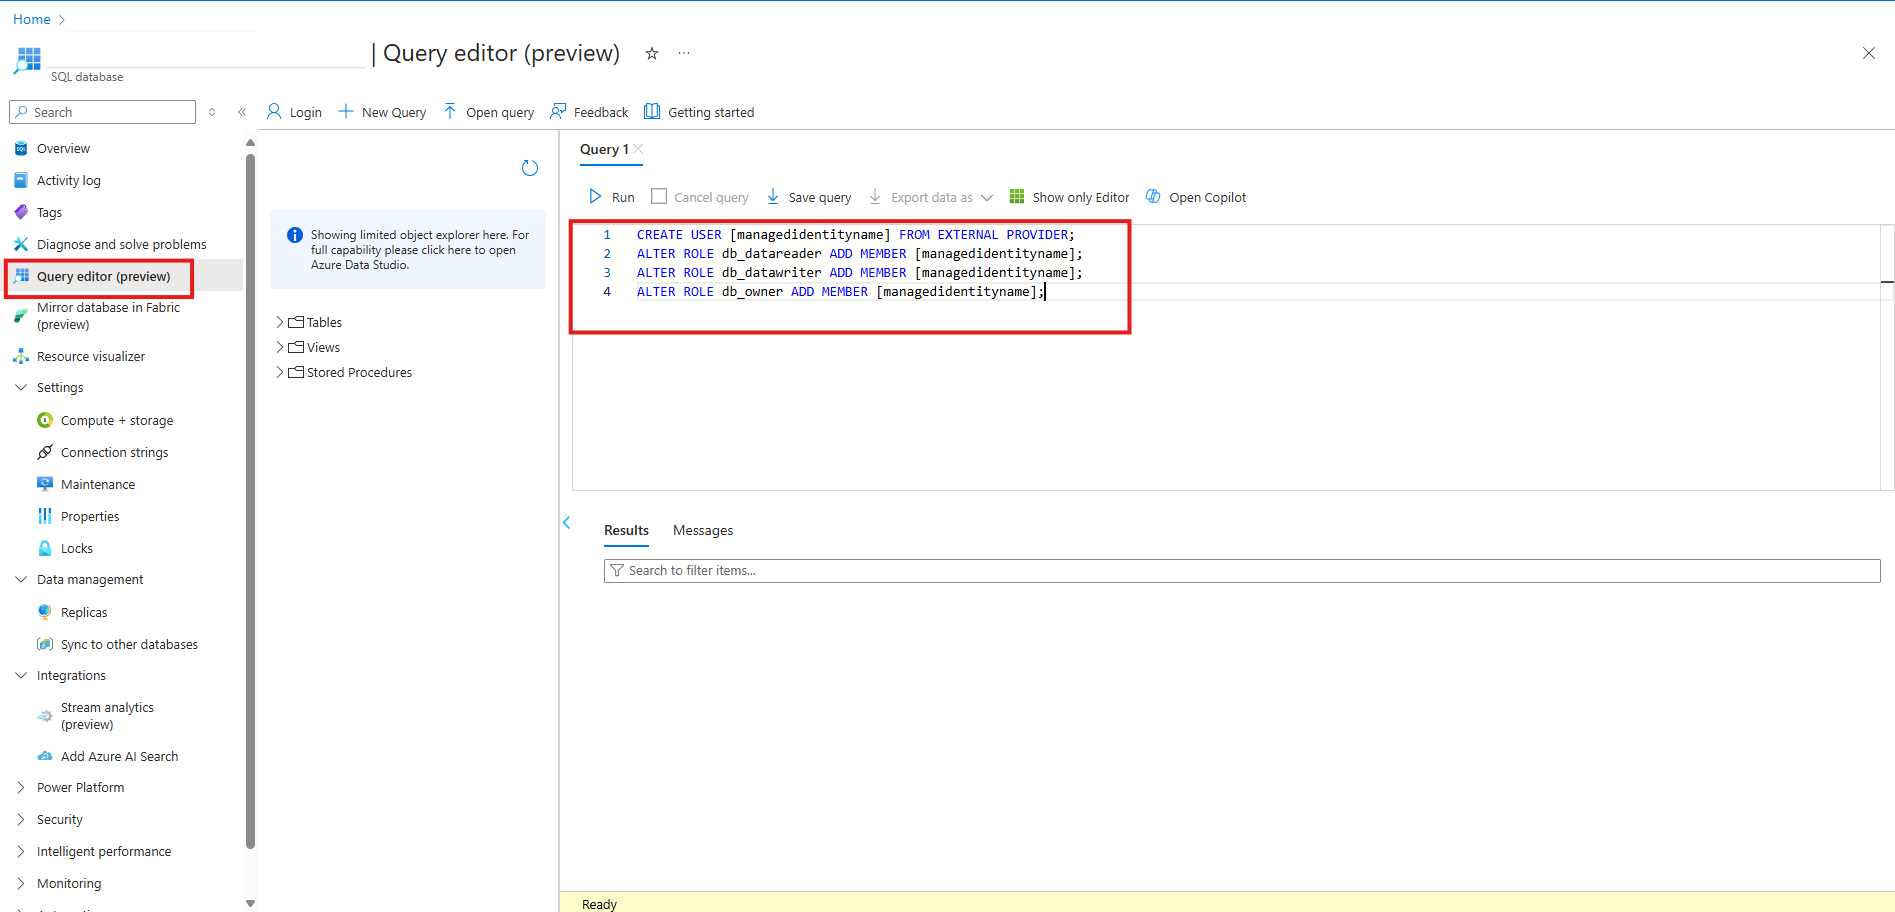
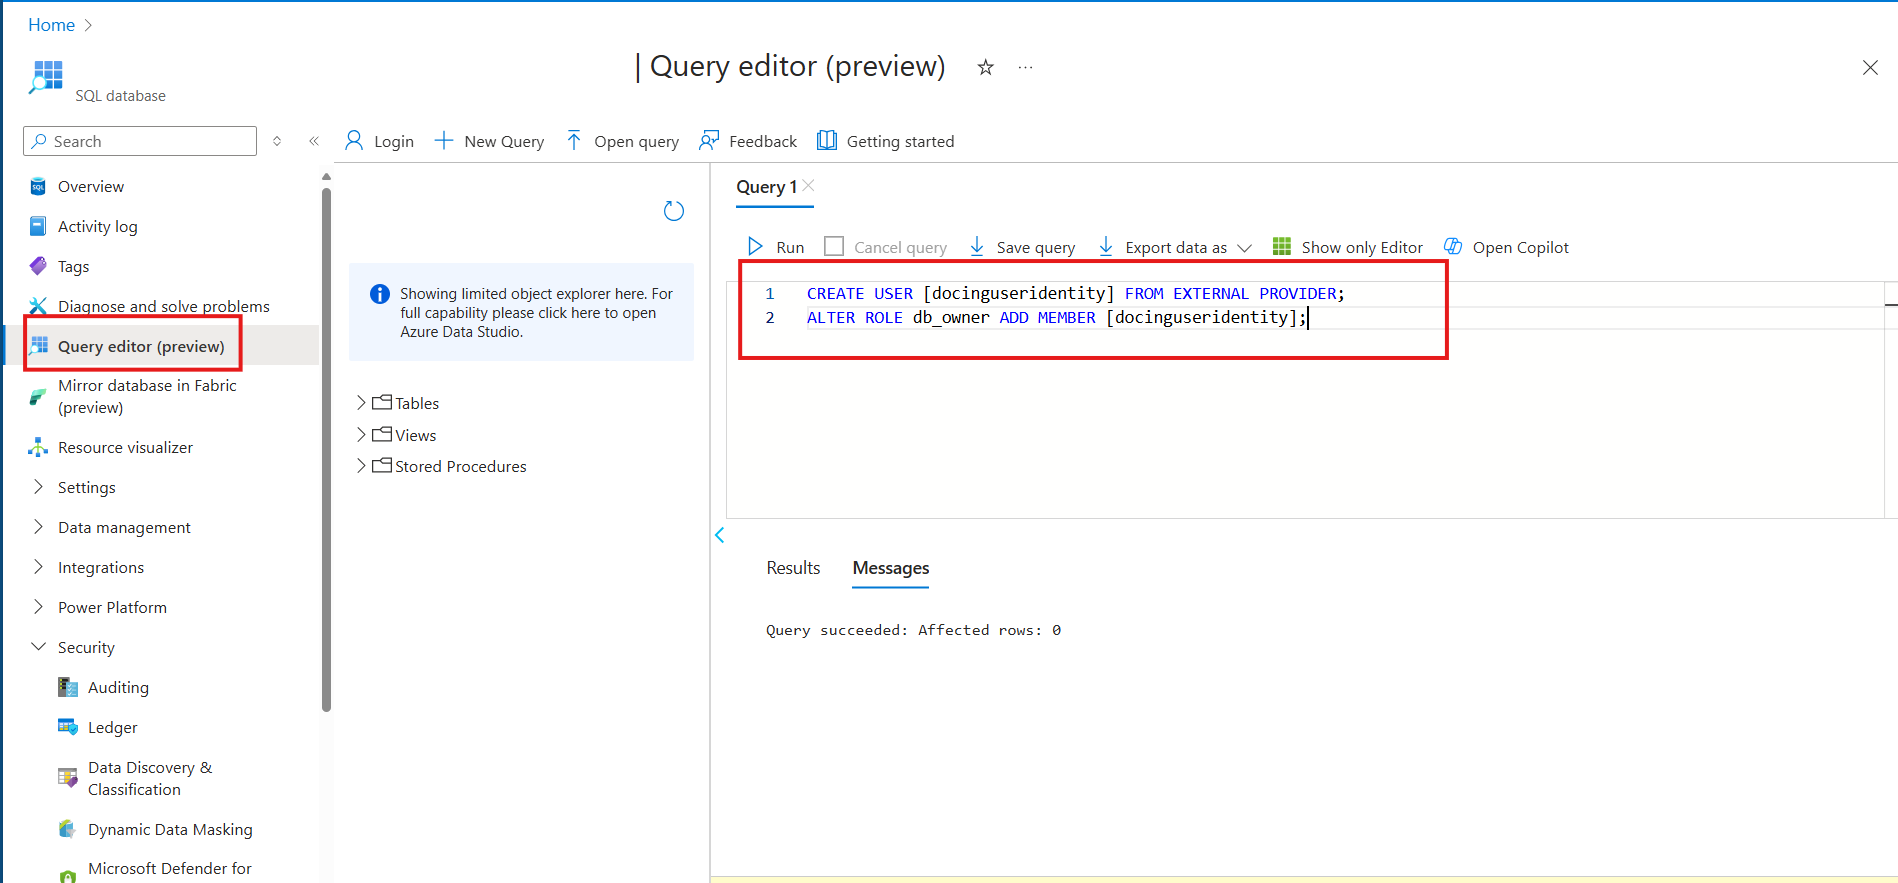
updated readme.md

diff --git a/README.md b/README.md
@@ -27,7 +27,7 @@ Currently this proof of concept uses:
 * Azure AI Document Intelligenct for text extraction using the `prebuilt-layout` model.
 * Fixed size, non-overlapping text chunking.
 * The `text-embedding-3-large` embedding model from Azure OpenAI for embedding.
-* Azure SQL o store and retrieve vector embeddings.
+* Azure SQL Server to store and retrieve vector embeddings.
 
 ## Setup
 
@@ -35,30 +35,39 @@ Currently this proof of concept uses:
 * An Azure subscription with access to Azure OpenAI.
 * The Azure CLI installed.
 * A Powershell prompt.
-* Build the code `dotnet publish -c Release`, and then zip the resulting publish directory)
+
 
 ### Steps
-1. Create a Resource Group in your Azure subscritpion in the region where you want your resources deployed. Ensure it's a region that supports all of the above Azure Resource types. Examples include `West US`, `East US`, and `East US2`.
+
 
 1. Set variables and subscription:
     ```powershell
     $sub = ""
     $rg = ""
-    az account set --subscription $sub
+    az account set --subscription $sub    
+    ```
+
+1. Create a Resource Group in your Azure subscritpion in the region where you want your resources deployed. Ensure it's a region that supports all of the above Azure Resource types. Examples include `West US`, `East US`, and `East US2`.
+
+    ```powershell
+    $region='eastus'
+    $owner='docinguser'
+    az group create -l $region -n $rg --tags Owner=$owner 
     ```
 
 1. Get your Principal ID and set it as a variable
     ```powershell
-    $env:principalId = az ad signed-in-user show --query objectId -o tsv
+    $principalId = az ad signed-in-user show --query objectId -o tsv
     ```
-
-1. Deploy initial set of resources
+1. Set the baseName variable and deploy initial set of resources
     ```powershell
-    az deployment group create --name 'deploy1' --resource-group $rg --template-file 'main.bicep' -p .\main.bicepparam
+    $baseName = 'docing'
+
+    az deployment group create --name "${baseName}deploy" --resource-group $rg --template-file '.\deployment\main.bicep' -p .\deployment\main.bicepparam --parameters userPrincipalId=$principalId baseName=$baseName
     ```
     This step will likely take several minutes to complete - it will create all of the required Azure resources.
 
-    NOTE: Some resource names must be globally unique. You can a different base name for the created resources by altering the `baseName` variable in the `main.bicepparam` file. If you do, make note of the new names for some of the steps below.
+    NOTE: Some resource names must be globally unique. You can set a different base name for the created resources by altering the `baseName` variable value.    
 
 1. Enable access to the managed identity in your Azure SQL database
 
@@ -74,20 +83,20 @@ Currently this proof of concept uses:
     ![screenshot](images/azuresql_managedidentity.png "Enable vector search")
 
 1. Deploy the functions app code
-    Set variables for the path to the zip file you downloaded in the prerequisites, and for the name of the functions app. By default, that will be `docingfuncapp` as below. 
+    Set variables for the GitHub repository path that contains the functionapp sourcecode and for the name of the functions app. By default, that will be `docingfuncapp` as below. 
    ```powershell
-        $zippedPath = "E:\deployment\functionapp.zip"
-        $funappname = 'docingfuncapp'
+        $funcappname = '${basename}funcapp'
+        $repoUrl = 'https://github.com/yorek/document-vector-pipeline'
+        $branch = 'master'
         echo "---> Deploying Function Code"
-        az functionapp deployment source config-zip -g $rg -n $funappname --src $zippedPath
+        az functionapp deployment source config --branch $branch --manual-integration --name $funcappname --repo-url $repoUrl --resource-group $rg
     ```
 
 1. Monitor traces
     ```powershell
     # Monitor traces 
-    $funappname = 'functionapp'
     echo "---> Monitoring Function Code"
-    func azure functionapp logstream $funappname
+    func azure functionapp logstream $funcappname
     ```
     Note - `func` above comes from the Azure Functions tools.  You can also view this log stream in the Azure Portal by navigating the the Azure Functions app created above, and clicking on the `Monitoring\Log Stream` blade.
 
